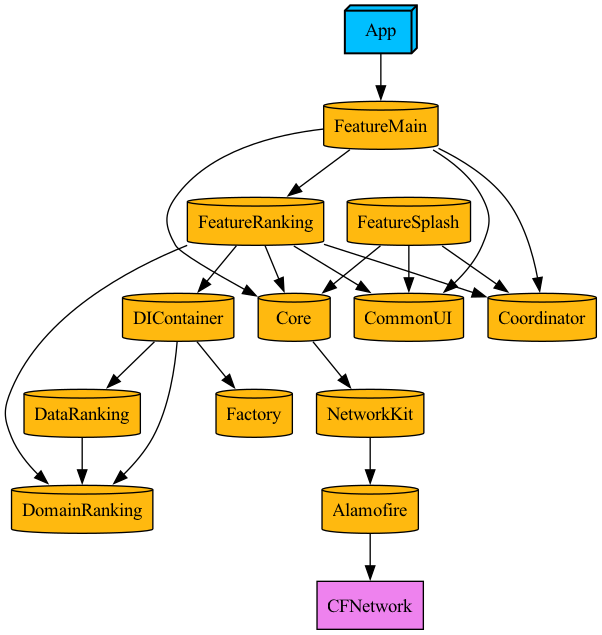
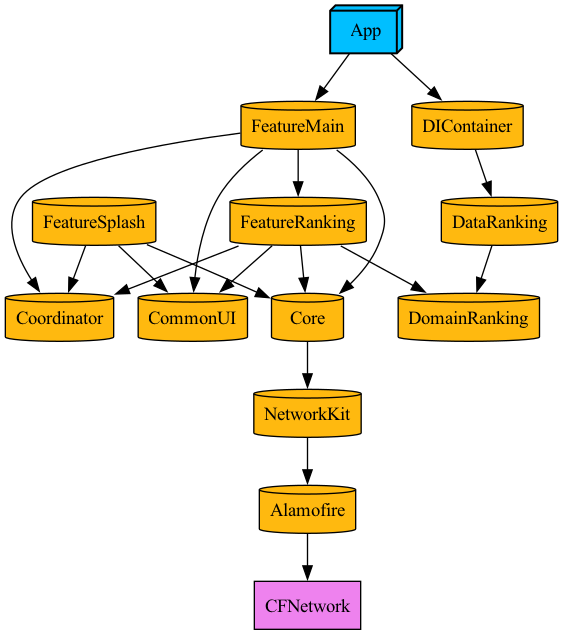
temp

Changed region(s): [[0.0, 0.0898, 0.9964, 1.0], [0.5435, 0.0, 0.7247, 0.1197], [0.1208, 0.2394, 0.2114, 0.2693]]

diff --git a/Projects/AnimalPicker/Sources/AnimalPickerApp.swift b/Projects/AnimalPicker/Sources/AnimalPickerApp.swift
@@ -8,12 +8,48 @@
 import SwiftUI
 import FeatureMain
 import FeatureRanking
+import DomainRanking
+import DataRanking
+import DIContainer
 
 @main
 struct AnimalPickerApp: App {
+    let useCaseContainer: UseCaseContainer = UseCaseContainer(repositoryContainer: RepositoryContainer())
+    @StateObject private var rankingVM: RankingVM = RankingVM()
+    
     var body: some Scene {
         WindowGroup {
             RankingView()
+                .environmentObject(rankingVM)
+                .onAppear {
+                    rankingVM.attachUseCases(
+                        getRankingUseCase: useCaseContainer.getRankingUseCase,
+                        getLevelUseCase: useCaseContainer.getLevelUseCase
+                    )
+                }
         }
     }
 }
+
+//extension Container: RepositoryDIContainer {
+//    public var rankingRepository: Factory<RankingRepository> {
+//        Factory(self) { RankingRepositoryImpl() }.singleton
+//    }
+//
+//    public var levelRepository: Factory<LevelRepository> {
+//        Factory(self) { LevelRepositoryImpl() }.singleton
+//    }
+//}
+//
+//extension Container: UseCaseDIContainer {
+//    public var getRankingUseCase: Factory<GetRankingUseCase> {
+//        Factory(self) {
+//            GetRankingUseCase(rankingRepository: self.rankingRepository())
+//        }
+//    }
+//    public var getLevelUseCase: Factory<GetLevelUseCase> {
+//        Factory(self) {
+//            GetLevelUseCase(levelRepository: self.levelRepository())
+//        }
+//    }
+//}

diff --git a/Projects/FeatureRanking/Sources/RankingVM.swift b/Projects/FeatureRanking/Sources/RankingVM.swift
@@ -6,26 +6,30 @@
 //
 
 import Combine
-import DIContainer
 import DomainRanking
-import Factory
 
-class RankingVM: ObservableObject {
-    @Injected(\.getRankingUseCase) var getRankingUseCase
-    @Injected(\.getLevelUseCase) var getLevelUseCase
-//    var totalRankings: [RankingEntity] = []
+public class RankingVM: ObservableObject {
+    private var getRankingUseCase: GetRankingUseCase? = nil
+    private var getLevelUseCase: GetLevelUseCase? = nil
     @Published var rankings: [RankingEntity] = []
     @Published var levels: [LevelEntity] = []
     
-    init() {
-        getLevels()
+    public init() {
+//        getLevels()
+    }
+    
+    public func attachUseCases(getRankingUseCase: GetRankingUseCase, getLevelUseCase: GetLevelUseCase) {
+        self.getRankingUseCase = getRankingUseCase
+        self.getLevelUseCase = getLevelUseCase
     }
     
     private func getLevels() {
-        self.levels = self.getLevelUseCase.execute()
+        guard let getLevelUseCase = getLevelUseCase else { return }
+        self.levels = getLevelUseCase.execute()
     }
     
     func getRanking(_ level: LevelEntity) {
+        guard let getRankingUseCase = getRankingUseCase else { return }
         self.rankings = getRankingUseCase.execute(level)
     }
     

diff --git a/Projects/DIContainer/Sources/UseCaseContainer.swift b/Projects/DIContainer/Sources/UseCaseContainer.swift
@@ -1,0 +1,26 @@
+//
+//  UseCaseContainer.swift
+//  DIContainer
+//
+//  Created by sandy on 10/7/24.
+//
+
+//import Factory
+import DomainRanking
+import DataRanking
+
+public class UseCaseContainer {
+    var repositoryContainer: RepositoryContainer
+    
+    public init(repositoryContainer: RepositoryContainer) {
+        self.repositoryContainer = repositoryContainer
+    }
+    
+    public var getRankingUseCase: GetRankingUseCase {
+        GetRankingUseCase(rankingRepository: self.repositoryContainer.rankingRepository)
+    }
+
+    public var getLevelUseCase: GetLevelUseCase {
+        GetLevelUseCase(levelRepository: self.repositoryContainer.levelRepository)
+    }
+}

diff --git a/Tuist/ProjectDescriptionHelpers/Project+Templates.swift b/Tuist/ProjectDescriptionHelpers/Project+Templates.swift
@@ -7,6 +7,23 @@
 
 import ProjectDescription
 
+public func interface(
+    parent: Module,
+    module: Module,
+    dependencies: [TargetDependency] = []
+) -> ProjectDescription.Target {
+    return .target(
+        name: module.name,
+        destinations: [.iPad, .iPhone],
+        product: .framework,
+        bundleId: "com.sandy.AnimalPicker.feature.\(parent.name).\(module.name)",
+        deploymentTargets: .iOS("16.0"),
+        sources: ["Sources/**"],
+        resources: [],
+        dependencies: dependencies
+    )
+}
+
 public func feature(
     module: Module,
     dependencies: [TargetDependency] = []

diff --git a/Tuist/ProjectDescriptionHelpers/ProjectName.swift b/Tuist/ProjectDescriptionHelpers/ProjectName.swift
@@ -22,7 +22,6 @@ public enum Module {
     
     case domainRanking
     
-    
     case dataRanking
 }
 
@@ -58,8 +57,16 @@ extension Module {
         return .relativeToRoot("Projects/" + self.name)
     }
     
+    public var interfacePath: ProjectDescription.Path {
+        return .relativeToRoot("Projects/Interfaces/" + self.name)
+    }
+    
     public var project: TargetDependency {
         return .project(target: self.name, path: self.path)
+    }
+    
+    public var interface: TargetDependency {
+        return .project(target: self.name, path: self.interfacePath)
     }
 }
 

diff --git a/Projects/DIContainer/Sources/RepositoryContainer.swift b/Projects/DIContainer/Sources/RepositoryContainer.swift
@@ -1,0 +1,24 @@
+//
+//  RepositoryContainer.swift
+//  DIContainer
+//
+//  Created by sandy on 10/22/24.
+//
+
+//import Factory
+import DomainRanking
+import DataRanking
+
+public class RepositoryContainer {
+    public init() {
+        
+    }
+    
+    public var rankingRepository: RankingRepository {
+        RankingRepositoryImpl()
+    }
+    
+    public var levelRepository: LevelRepository {
+        LevelRepositoryImpl()
+    }
+}

diff --git a/Projects/FeatureRanking/Sources/RankingView.swift b/Projects/FeatureRanking/Sources/RankingView.swift
@@ -10,7 +10,7 @@ import CommonUI
 import DomainRanking
 
 public struct RankingView: View {
-    @StateObject private var vm: RankingVM = RankingVM()
+    @EnvironmentObject private var vm: RankingVM
     @State private var currentLevel: LevelEntity = .easy
     @State private var rankLocation: CGRect = CGRect.zero
     @State private var nicknameLocation: CGRect = CGRect.zero

diff --git a/Projects/DIContainer/Project.swift b/Projects/DIContainer/Project.swift
@@ -16,9 +16,8 @@ var project = Project(
         kit(
             module: module,
             dependencies: [
-                Module.domainRanking.project,
                 Module.dataRanking.project,
-                .external(name: "Factory"),
+//                .external(name: "Factory"),
             ]
         )
     ]

diff --git a/Projects/FeatureRanking/Project.swift b/Projects/FeatureRanking/Project.swift
@@ -20,7 +20,6 @@ var project = Project(
                 Module.commonUI.project,
                 Module.coordinator.project,
                 Module.domainRanking.project,
-                Module.diContainer.project,
             ]
         )
     ]

diff --git a/Projects/AnimalPicker/Project.swift b/Projects/AnimalPicker/Project.swift
@@ -31,6 +31,7 @@ var project = Project(
             resources: ["Resources/**"],
             dependencies: [
                 Module.featureMain.project,
+                Module.diContainer.project,
             ]
         )
     ]

diff --git a/Projects/DomainRankingInterface/Sources/UseCaseInterfaces.swift b/Projects/DomainRankingInterface/Sources/UseCaseInterfaces.swift
@@ -1,0 +1,8 @@
+//
+//  UseCaseInterfaces.swift
+//  DomainRankingInterface
+//
+//  Created by sandy on 10/22/24.
+//
+
+import Foundation
